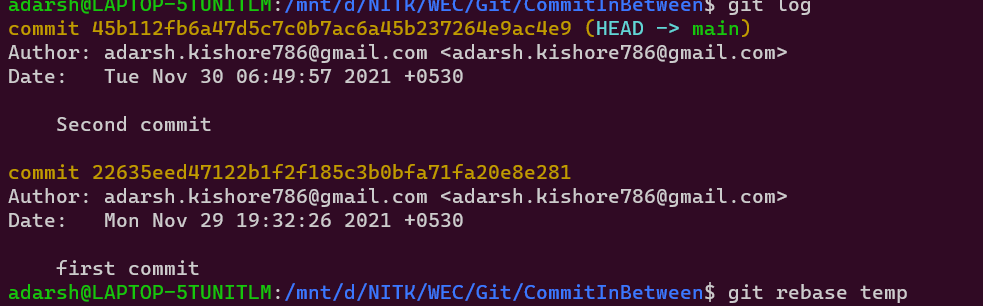
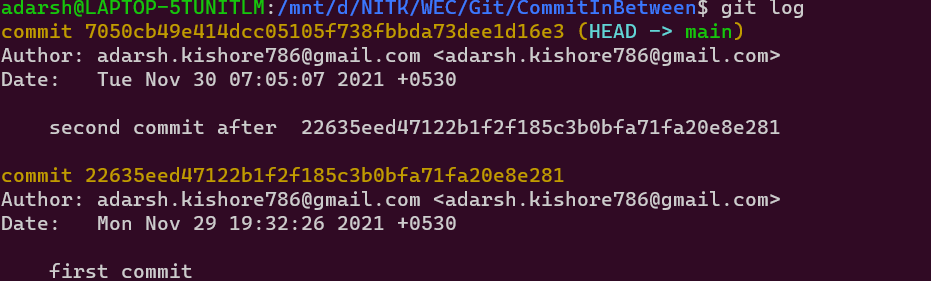
Added Steps.md with explanation

diff --git a/CommitInBetween/Steps.md b/CommitInBetween/Steps.md
@@ -1,0 +1,15 @@
+## Steps
+
+1) First a new branch is created by <code>git branch temp</code>
+   ![step 1](example-step1.png)
+
+2) Then it is made to point to the parent commit by <code>git branch -f temp \<hash of commit\></code>. Then we check it out by <code>git checkout temp</code>
+   ![step 2](example-step2.png)
+
+3) Now a few dummy changes are made and committed. At this point <code>main</code> and <code>temp</code> have diverged by one commit
+   ![step 3](example-step3.png)
+
+4) Now we checkout back to <code>main</code>, what we need is to somehow put its commit below the commit in the other branch. For this, we can rebase it with <code>git rebase temp</code>
+   ![step 4](example-step4.png)
+
+5) Our task is done! The new commit is between the parent and child commits. Athough the hash value of the child commit changed due to rebase, but it is the same commit, just a different hash. And what's in a ~name~ hash?
